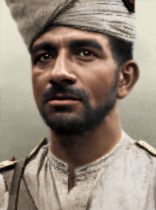
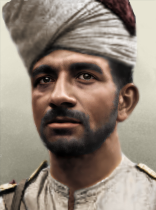
Update webpage (automatic)

diff --git a/index.html b/index.html
@@ -11228,11 +11228,11 @@
           </div>
         
           <div data-clipboard-text="GFX_report_event_BRA_vargas2" data-search-text="GFX_report_event_BRA_vargas2" title="GFX_report_event_BRA_vargas2" class="icon">
-            <img src="gfx/event_pictures/South_America/Brazil/report_event_BRA_vargas1.png" alt="GFX_report_event_BRA_vargas2">
+            <img src="gfx/event_pictures/South_America/Brazil/report_event_BRA_vargas2.png" alt="GFX_report_event_BRA_vargas2">
           </div>
         
           <div data-clipboard-text="GFX_report_event_BRA_vargas3" data-search-text="GFX_report_event_BRA_vargas3" title="GFX_report_event_BRA_vargas3" class="icon">
-            <img src="gfx/event_pictures/South_America/Brazil/report_event_BRA_vargas1.png" alt="GFX_report_event_BRA_vargas3">
+            <img src="gfx/event_pictures/South_America/Brazil/report_event_BRA_vargas3.png" alt="GFX_report_event_BRA_vargas3">
           </div>
         
           <div data-clipboard-text="GFX_report_event_BRA_worldcup" data-search-text="GFX_report_event_BRA_worldcup" title="GFX_report_event_BRA_worldcup" class="icon">
@@ -19374,7 +19374,7 @@
       </div>
     </div>
     <footer>
-      <p>Made with ❤ by <a href="https://github.com/Yard1">Yard1</a> with help from <a href="http://getskeleton.com/">Skeleton CSS</a>, <a href="https://feathericons.com/">Feather</a>, <a href="https://clipboardjs.com/">ClipboardJS</a> and <a href="https://www.w3schools.com/">W3Schools</a>.<br \>Last updated: 2021-06-27 07:49:47.524931 UTC</p>
+      <p>Made with ❤ by <a href="https://github.com/Yard1">Yard1</a> with help from <a href="http://getskeleton.com/">Skeleton CSS</a>, <a href="https://feathericons.com/">Feather</a>, <a href="https://clipboardjs.com/">ClipboardJS</a> and <a href="https://www.w3schools.com/">W3Schools</a>.<br \>Last updated: 2021-06-27 23:18:09.315347 UTC</p>
     </footer>
   </div>
 </body>
